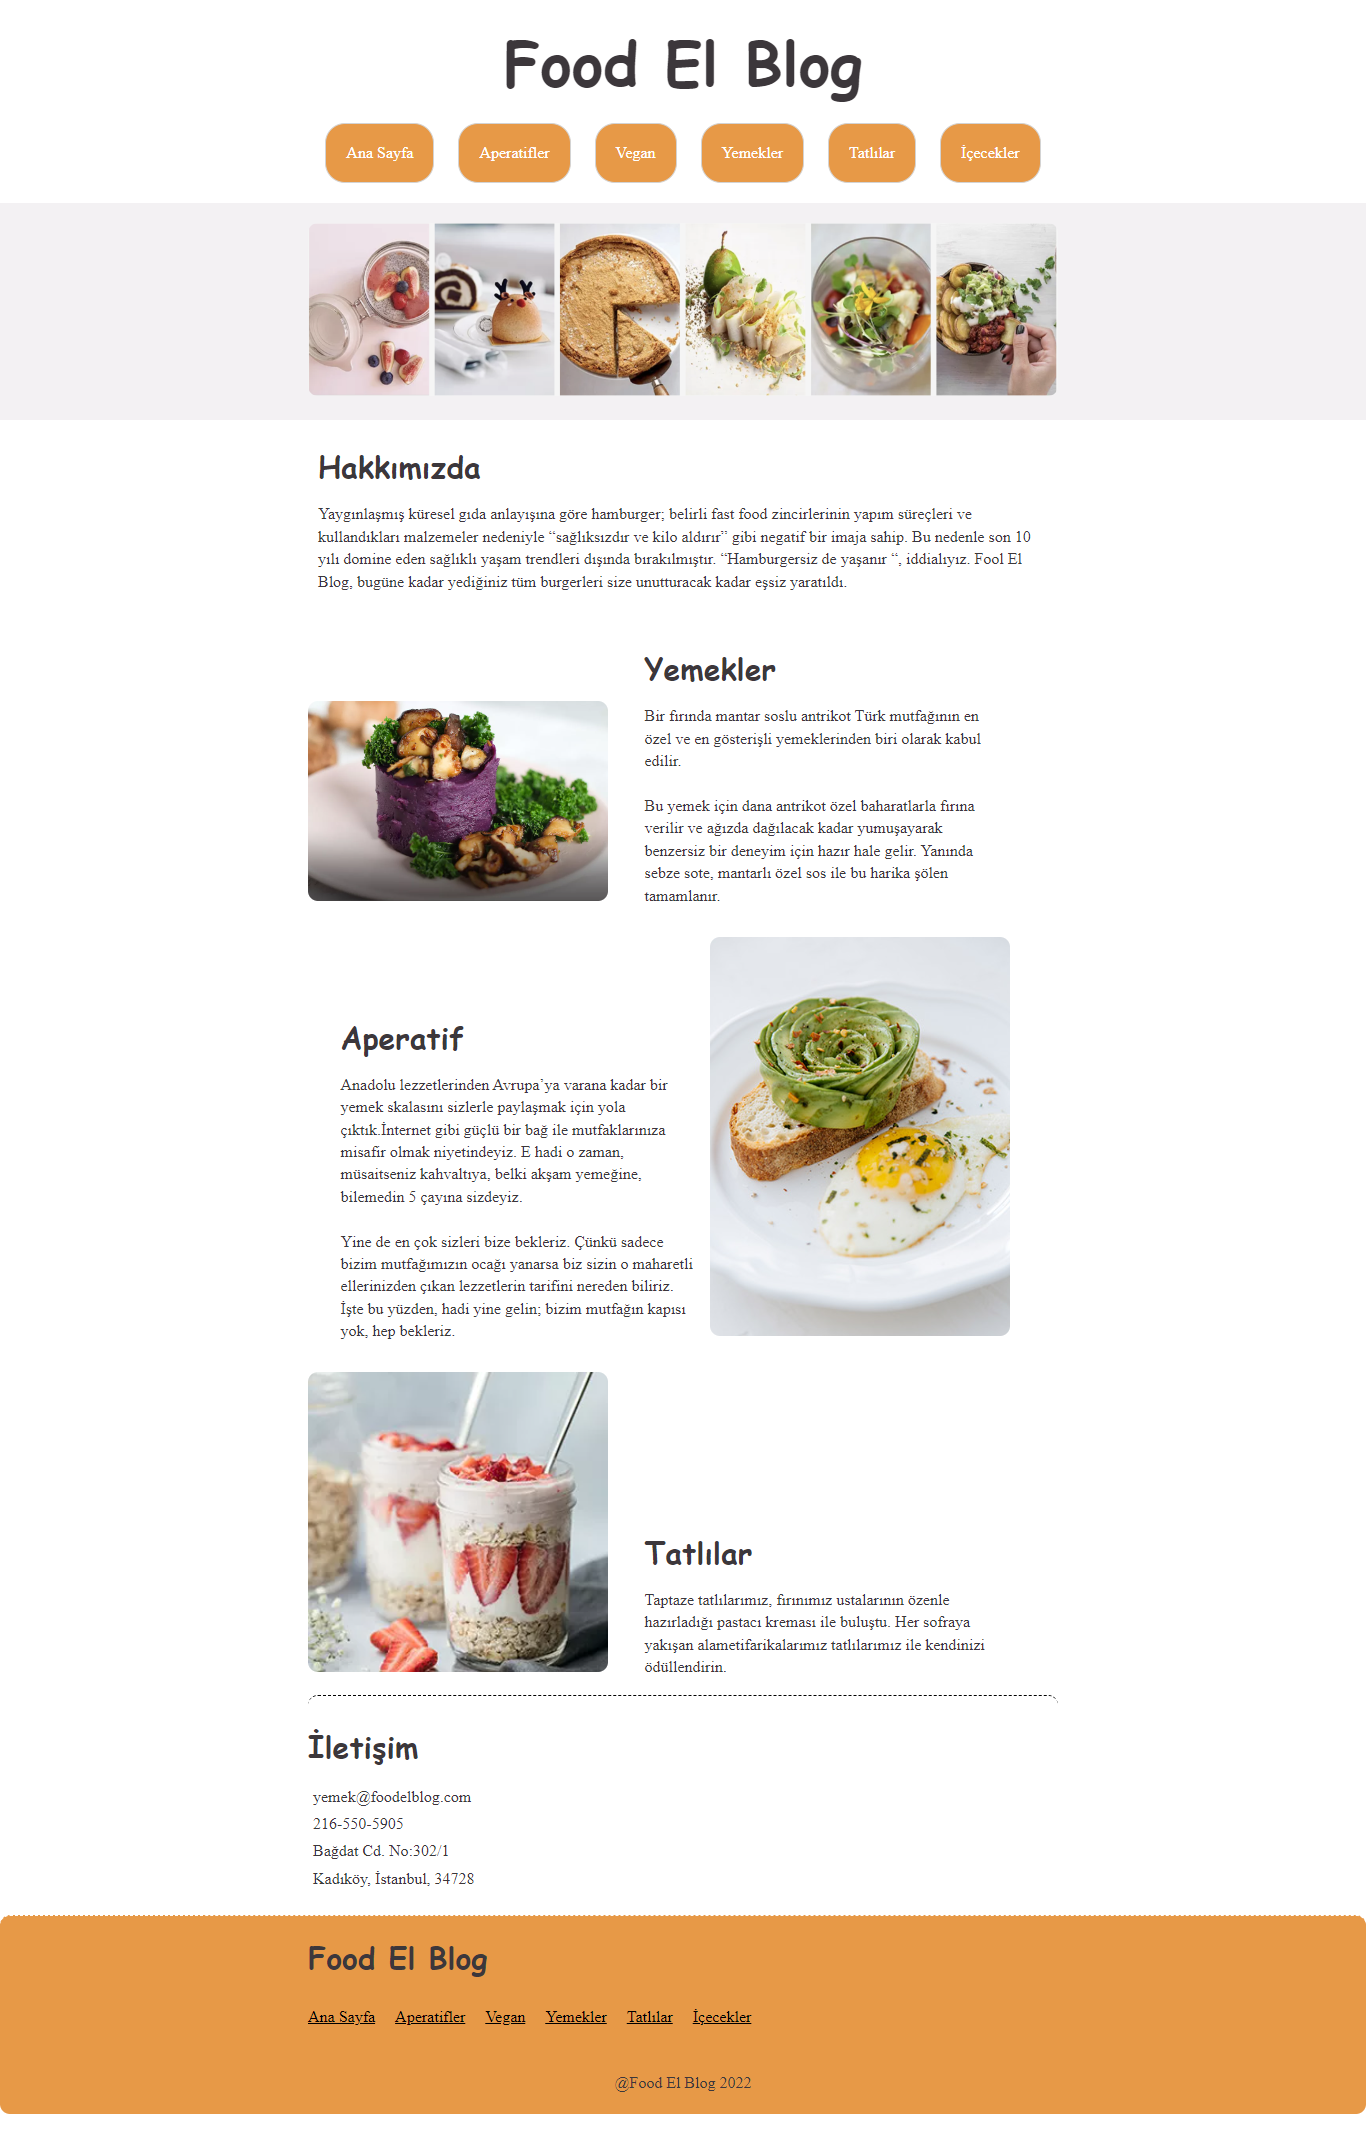
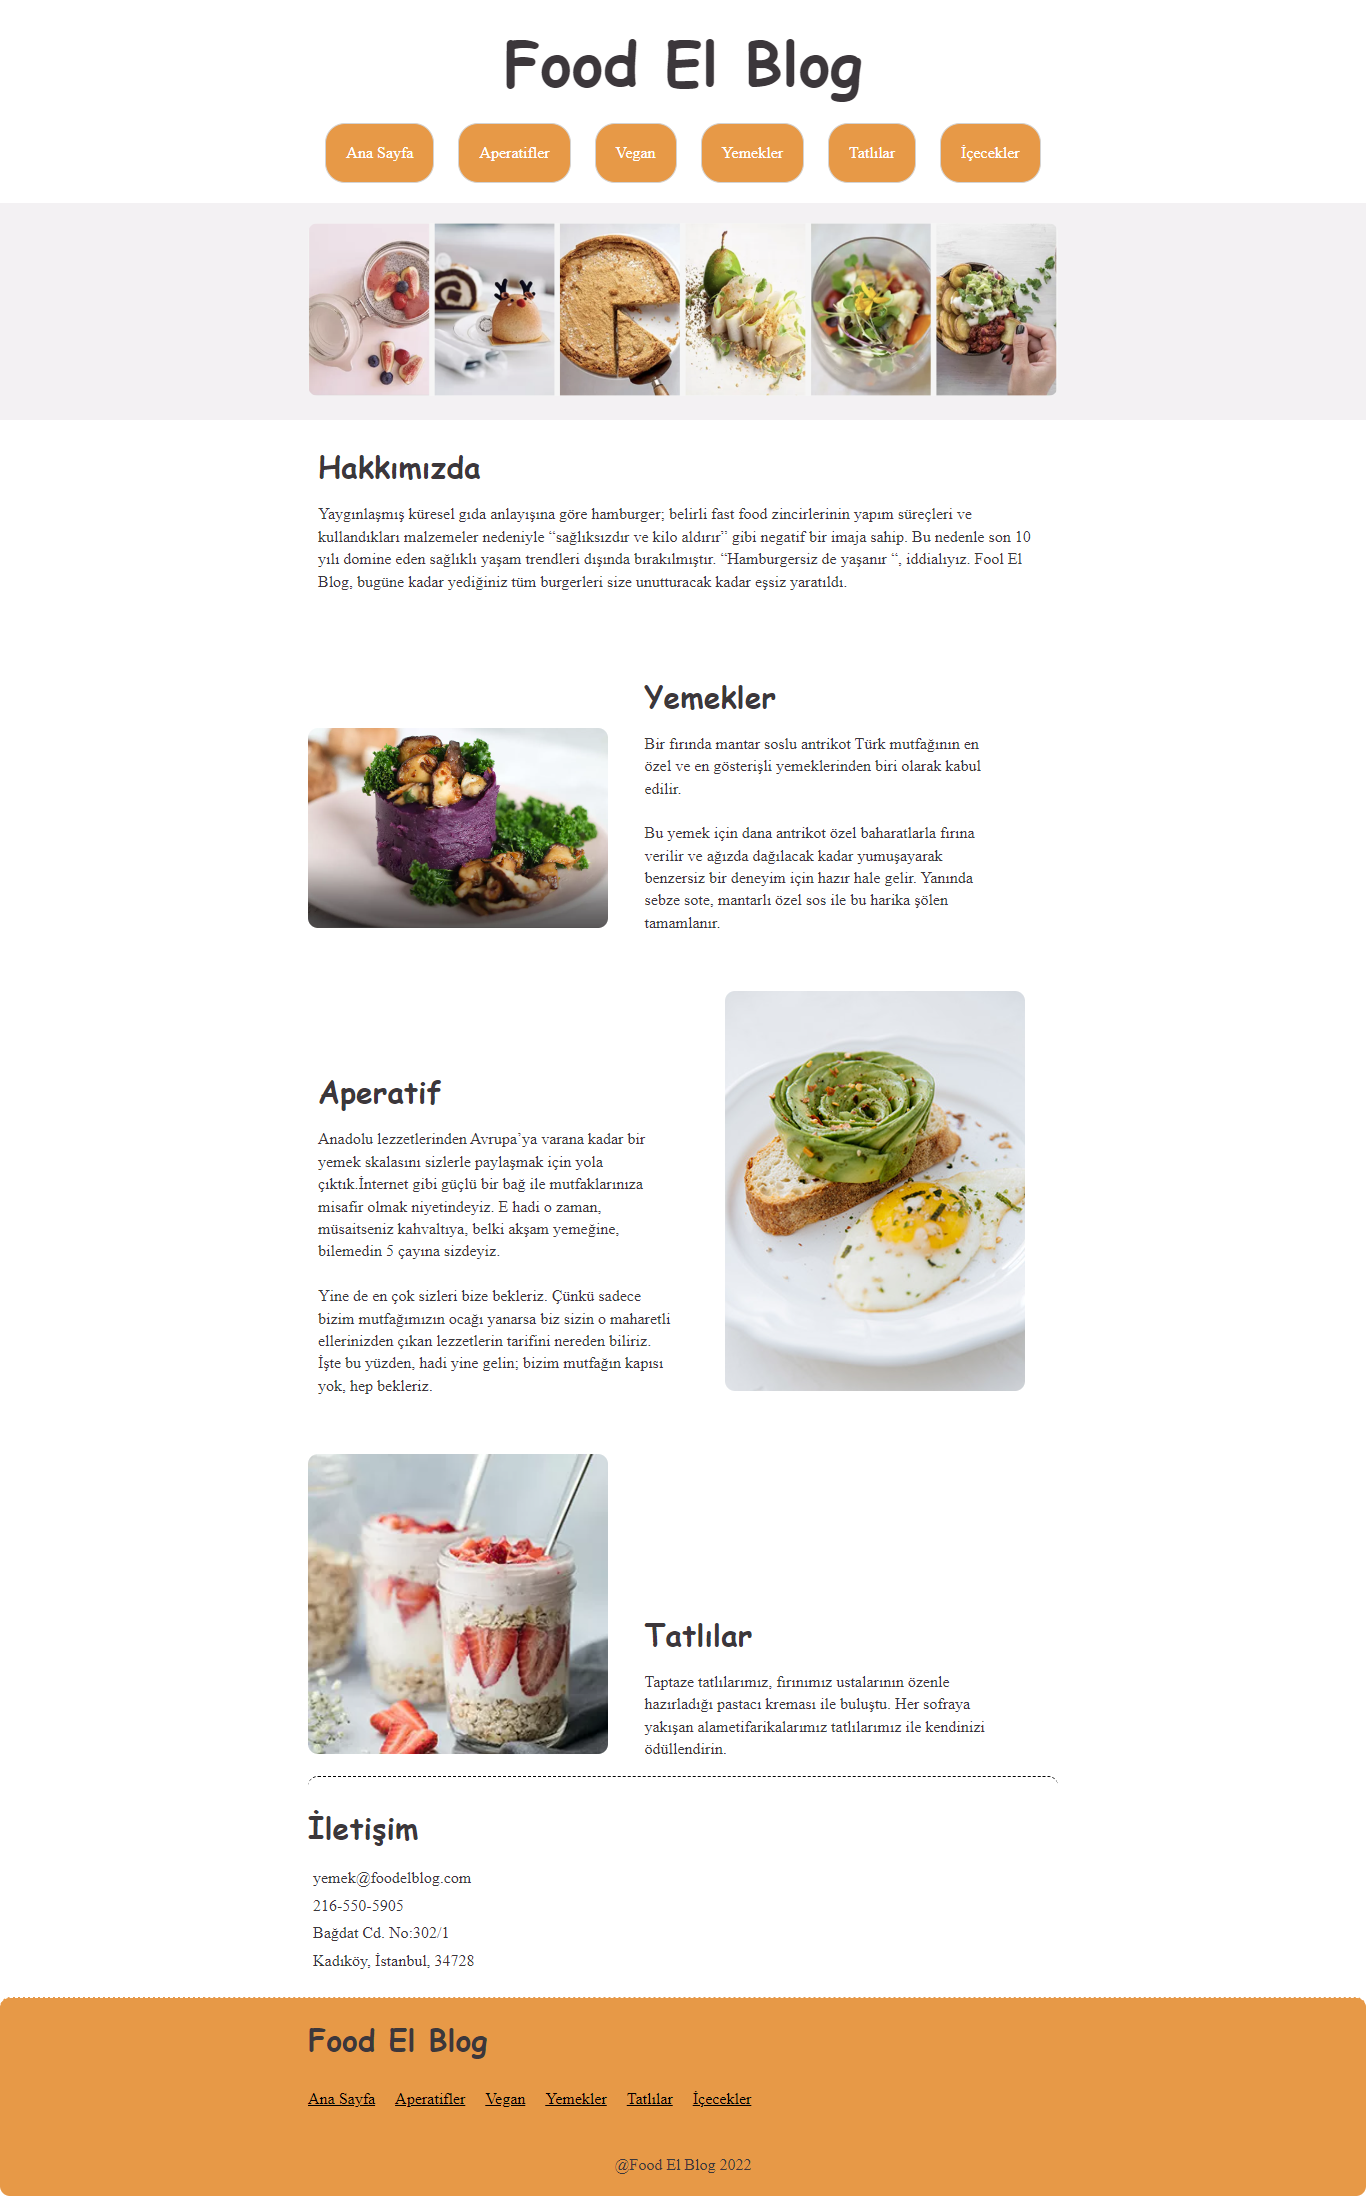
Ödev güncellendi

diff --git a/index.html b/index.html
@@ -73,7 +73,7 @@
 
     <div class="ozellikler container">
         <div>
-            <div>
+            <div class="left">
                 <h2>Aperatif</h2>
                 <p>
                     Anadolu lezzetlerinden Avrupa’ya varana kadar bir yemek skalasını sizlerle paylaşmak için yola

diff --git a/index.css b/index.css
@@ -58,14 +58,12 @@ img{
 
 
 .ozellikler{
-  padding-top: 1%; 
-  
+  padding-top: 3%;   
 }
 
 .ozellikler img{
   display: inline-block;
-  width: 40%;
-  
+  width: 40%;  
 }
 
 .ozellikler div div{
